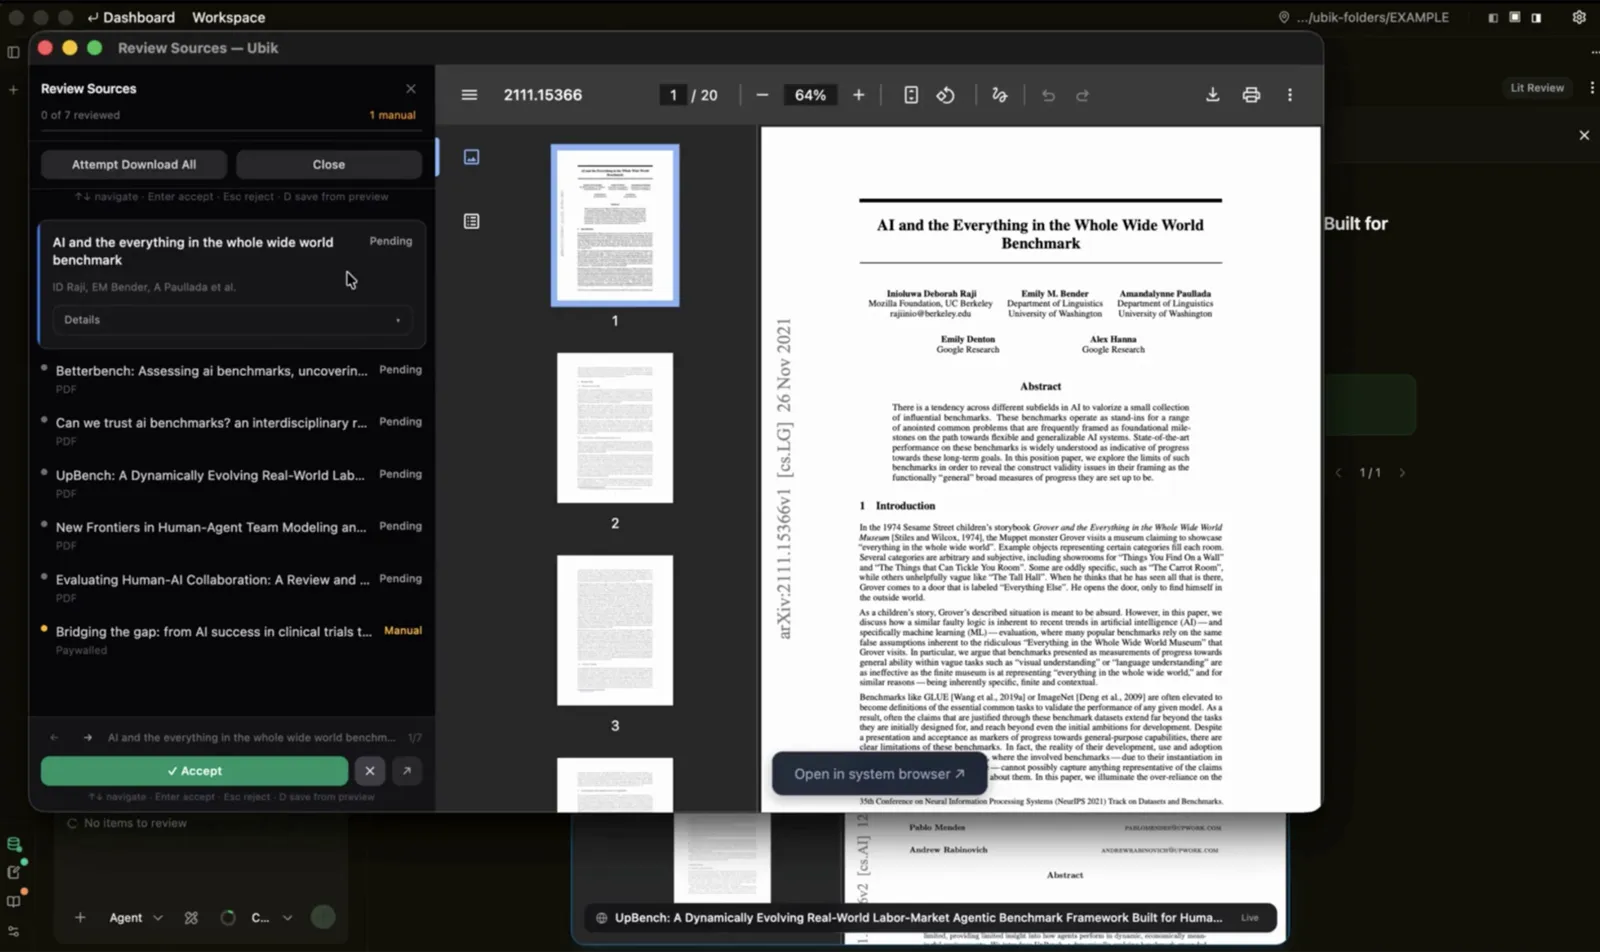
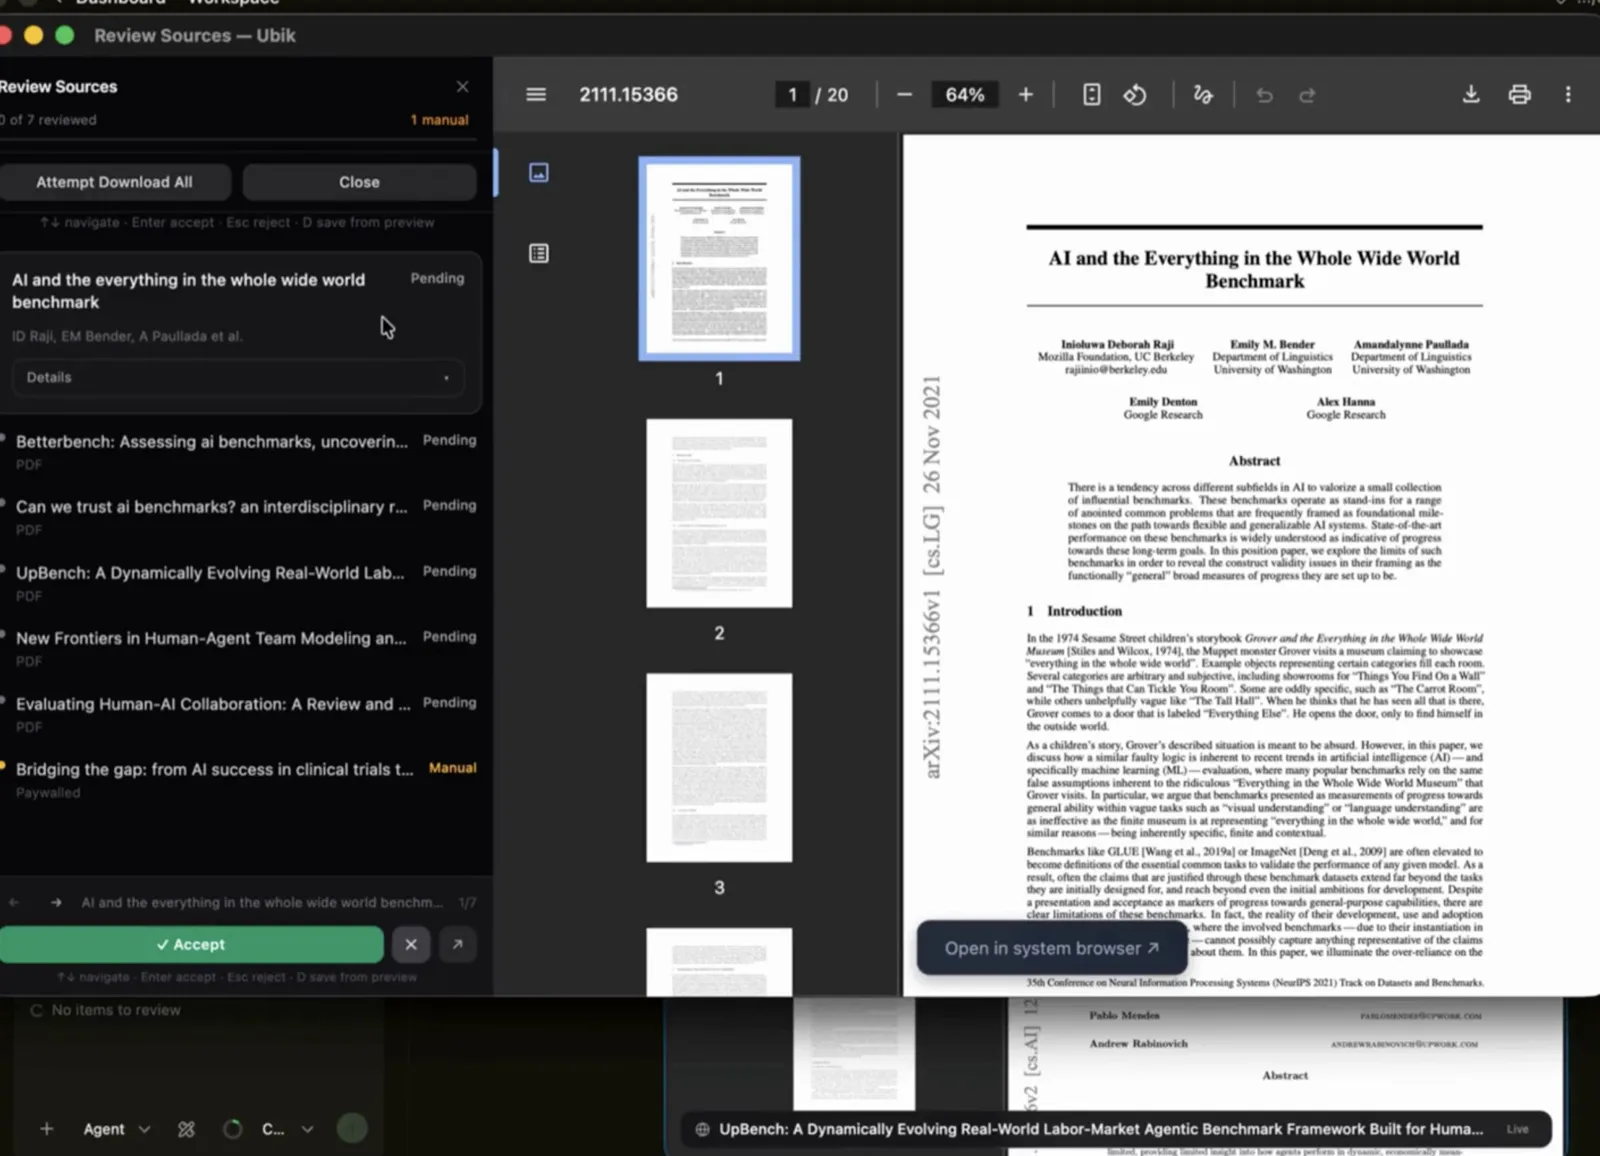
Ubik page: re-crop all six screenshots to trim the black macOS window chrome / title bar so the app content fills each frame edge-to-edge; update image dimensions to match

diff --git a/app/demo/ubik/page.tsx b/app/demo/ubik/page.tsx
@@ -11,16 +11,16 @@ type Shot = { src: string; w: number; h: number; label: string }
 const hero: Shot = {
   src: '/ubik-workspace.webp',
   w: 1600,
-  h: 1039,
+  h: 962,
   label: 'The three-pane workspace — agent chat on the left, the source paper in the middle, and an evidence panel on the right where each extracted claim is accepted or rejected by hand (two still pending in the header)',
 }
 
 const gallery: Shot[] = [
-  { src: '/ubik-evidence.webp', w: 1600, h: 950, label: 'An evidence card — a single claim, the paragraph it was drawn from, and the eight supporting quotes (with page numbers) that back it, opened beside the highlighted source note' },
-  { src: '/ubik-human-needed.webp', w: 1600, h: 1167, label: 'A Human Needed block embedded mid-document: the agent stops, states the judgment it needs, offers two candidate drafts and a free-write, and waits — skip or submit, tracked in the status bar' },
-  { src: '/ubik-litreview.webp', w: 1600, h: 952, label: 'The Review Sources queue — each flagged paper (some auto, one manual/paywalled) previewed in full before it is accepted, driven entirely by the keyboard: arrow to navigate, enter to accept, esc to reject' },
-  { src: '/ubik-explorer.webp', w: 1600, h: 917, label: 'Agentic search returns a ranked shortlist of flagged papers on the left; on the right, a drafted document where every claim carries an inline citation back to a real source (King 1, King 2 …)' },
-  { src: '/ubik-summary.webp', w: 1600, h: 940, label: 'The Result Explorer scoring sources on recency, peer-review, methodology, and relevance — behind a Review Needed gate that makes you review-and-download rather than download blindly. Left: an edit workflow trimming a draft at a chosen intensity while the Context Engine indexes' },
+  { src: '/ubik-evidence.webp', w: 1600, h: 945, label: 'An evidence card — a single claim, the paragraph it was drawn from, and the eight supporting quotes (with page numbers) that back it, opened beside the highlighted source note' },
+  { src: '/ubik-human-needed.webp', w: 1600, h: 1206, label: 'A Human Needed block embedded mid-document: the agent stops, states the judgment it needs, offers two candidate drafts and a free-write, and waits — skip or submit, tracked in the status bar' },
+  { src: '/ubik-litreview.webp', w: 1600, h: 1156, label: 'The Review Sources queue — each flagged paper (some auto, one manual/paywalled) previewed in full before it is accepted, driven entirely by the keyboard: arrow to navigate, enter to accept, esc to reject' },
+  { src: '/ubik-explorer.webp', w: 1600, h: 975, label: 'Agentic search returns a ranked shortlist of flagged papers on the left; on the right, a drafted document where every claim carries an inline citation back to a real source (King 1, King 2 …)' },
+  { src: '/ubik-summary.webp', w: 1600, h: 932, label: 'The Result Explorer scoring sources on recency, peer-review, methodology, and relevance — behind a Review Needed gate that makes you review-and-download rather than download blindly. Left: an edit workflow trimming a draft at a chosen intensity while the Context Engine indexes' },
 ]
 
 export const metadata = {
